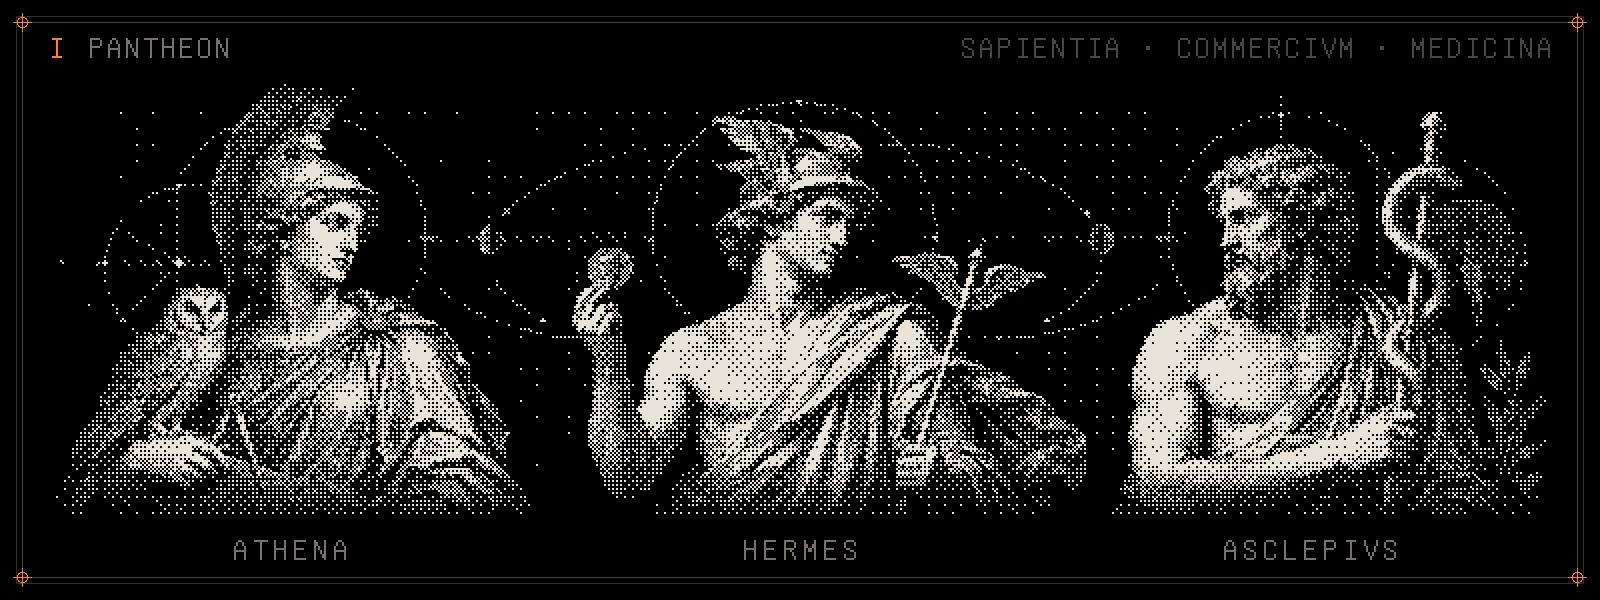
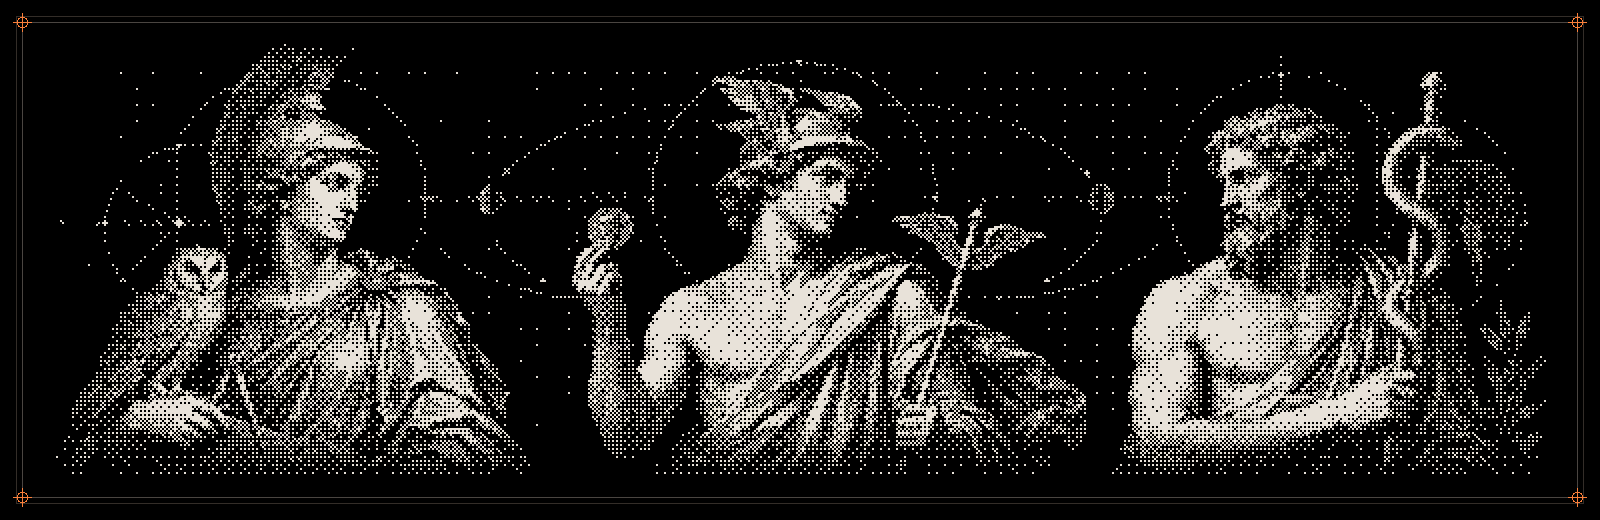
Profile: remove figure labels and the Homonin-palette snake
- Plates no longer carry their margin labels (plate number, title and
  corner tag). They are off behind LABELS in plates.js.
- Pantheon drops the Athena, Hermes and Asclepius name line and is
  cropped to match.
- README drops the captions under each figure and the "Plate N" prefix
  in alt text.
- README no longer shows the contribution snake, and the workflow stops
  generating the Homonin-palette snake variant.

Changed region(s): [[0.0, 0.1231, 1.0, 0.9846], [0.0312, 0.0923, 0.3438, 0.9231], [0.0, 0.0308, 1.0, 0.0923]]

diff --git a/tools/plates/plates.js b/tools/plates/plates.js
@@ -7,12 +7,15 @@ const SERIF = 'FreeSerif';
 const MONO = 'Unifont';
 const M = (p) => 'http://plates.local/media/' + p;
 
-// Plate chrome shared by every image: double rule, corner registration marks,
-// plate number and title set in the engraver's margin.
+// Plate chrome shared by every image: double rule and corner registration
+// marks. The plate number and title in the engraver's margin are off by
+// default (the profile shows the plates unlabelled); set LABELS to bring them back.
+const LABELS = false;
 function chrome(f, { no, title, right = '' }) {
   box(f, 16, 16, f.w - 33, f.h - 33, C.LINE);
   box(f, 22, 22, f.w - 45, f.h - 45, C.FAINT);
   for (const [x, y] of [[22, 22], [f.w - 23, 22], [22, f.h - 23], [f.w - 23, f.h - 23]]) regmark(f, x, y, 9, C.ACC);
+  if (!LABELS) return;
   if (no) text(f, no, 48, 58, `32px ${MONO}`, C.ACC);
   if (title) text(f, title, 48 + (no ? [...no].length * 16 + 24 : 0), 58, `32px ${MONO}`, C.MUT, { track: 2 });
   if (right) text(f, right, f.w - 48, 58, `32px ${MONO}`, C.FAINT, { align: 'right', track: 2 });
@@ -197,13 +200,12 @@ PLATES['a12n4v-systema'] = async () => {
 // I. PANTHEON: the original profile banner (Athena, Hermes, Asclepius),
 // re-struck in the plate system. Wisdom, exchange, medicine.
 PLATES['a12n4v-pantheon'] = async () => {
-  const W = 1600, H = 600, f = new Frame(W, H);
+  const W = 1600, H = 520, f = new Frame(W, H);
   chrome(f, { no: 'I', title: 'PANTHEON', right: 'SAPIENTIA · COMMERCIVM · MEDICINA' });
   const img = await loadImg('http://plates.local/src/classical-systems-banner.jpg');
-  const s = 2, x = 40, y = 80, w = 1520, h = 440, lw = w / s, lh = h / s;
+  const s = 2, x = 40, y = 40, w = 1520, h = 440, lw = w / s, lh = h / s;
   const L = autocontrast(lumField(img, lw, lh, { fit: 'cover', crop: [0, 20, 1800, 520] }), 0.01);
   ditherInto(f, L, lw, lh, x, y, s, { gamma: 1.15, mod: (cx, cy, v) => v * Math.max(0, Math.min(1, cy / 12, (lh - cy) / 30, cx / 20, (lw - cx) / 20)) });
-  ['ATHENA', 'HERMES', 'ASCLEPIVS'].forEach((t, i) => text(f, t, [290, 800, 1310][i], 560, `32px ${MONO}`, C.MUT, { align: 'center', track: 4 }));
   return { frames: [f], delays: [0] };
 };
 

diff --git a/README.md b/README.md
@@ -1,5 +1,5 @@
 <div align="center">
-  <img src="assets/a12n4v-pantheon.png" width="100%" alt="Plate I, Pantheon: dithered neoclassical busts of Athena, Hermes, and Asclepius, for wisdom, exchange, and medicine." />
+  <img src="assets/a12n4v-pantheon.png" width="100%" alt="Pantheon: dithered neoclassical busts of Athena, Hermes, and Asclepius, for wisdom, exchange, and medicine." />
 </div>
 
 # Arnav Sharma
@@ -20,28 +20,19 @@ A body produces **signals**. A model turns those signals into **signs**. A contr
 <br />
 
 <div align="center">
-  <img src="assets/a12n4v-systema.gif" width="100%" alt="Plate II, Systema Viabile, after Stafford Beer: an animated Viable System Model with Homonin at the center. Policy, intelligence, control, coordination, models, research, and the environment each send signals into Homonin and get feedback back. Around the edge, Beer's own wiring carries traffic too: the S3-S4 homeostat, the command channel, coordination, and the coupling to the environment." />
-  <sub>Beer's <i>Viable System Model</i> (<i>Brain of the Firm</i>, 1972), with Homonin at the center. Every system sends its signal in, Homonin integrates them, and feedback goes back out to each one.</sub>
+  <img src="assets/a12n4v-systema.gif" width="100%" alt="Systema Viabile, after Stafford Beer: an animated Viable System Model with Homonin at the center. Policy, intelligence, control, coordination, models, research, and the environment each send signals into Homonin and get feedback back. Around the edge, Beer's own wiring carries traffic too: the S3-S4 homeostat, the command channel, coordination, and the coupling to the environment." />
 </div>
 
 <br /><br />
 
 <div align="center">
-  <img src="assets/a12n4v-flvxvs.gif" width="100%" alt="Plate III, Flvxvs: seven data sources drawn as pixel glyphs (cardiac, neural, imaging, genome, labs, records, pathways) with their file formats, flowing into Homonin, drawn as a ship's helm. Homonin sends them out to a digital twin, therapy, care, and evidence, and an orange feedback line carries every outcome back into every source." />
-  <sub>What the body emits, the formats it arrives in, and where it goes. The helm is the <i>kybernetes</i>, the steersman that gave cybernetics its name.</sub>
+  <img src="assets/a12n4v-flvxvs.gif" width="100%" alt="Flvxvs: seven data sources drawn as pixel glyphs (cardiac, neural, imaging, genome, labs, records, pathways) with their file formats, flowing into Homonin, drawn as a ship's helm. Homonin sends them out to a digital twin, therapy, care, and evidence, and an orange feedback line carries every outcome back into every source." />
 </div>
 
 <br /><br />
 
 <div align="center">
-  <img src="https://raw.githubusercontent.com/A12N4V/A12N4V/output/a12n4v-pvlsvs.gif" width="100%" alt="Plate IV, Pvlsvs: live GitHub activity. Weekly contributions drawn as an ECG trace under a sweeping monitor line, the past year as a dithered contribution calendar, then contributions, streaks, repositories, stars, followers, and languages." />
-  <sub>Live. A GitHub Action re-renders this plate every day from this account's activity.</sub>
-</div>
-
-<br />
-
-<div align="center">
-  <img src="https://raw.githubusercontent.com/A12N4V/A12N4V/output/github-contribution-grid-snake-homonin.svg" width="100%" alt="Contribution snake in the Homonin palette" />
+  <img src="https://raw.githubusercontent.com/A12N4V/A12N4V/output/a12n4v-pvlsvs.gif" width="100%" alt="Pvlsvs: live GitHub activity. Weekly contributions drawn as an ECG trace under a sweeping monitor line, the past year as a dithered contribution calendar, then contributions, streaks, repositories, stars, followers, and languages." />
 </div>
 
 ---

diff --git a/tools/plates/README.md b/tools/plates/README.md
@@ -25,7 +25,7 @@ Glyphs are Homonin's 24×24 pixel icons, copied into `src/glyphs/`. A few more (
 
 `.github/workflows/plugins.yml` runs every day and on every push to `main`. It:
 
-1. generates the contribution snake (GitHub palette and Homonin palette),
+1. generates the contribution snake,
 2. runs `fetch-pulse.js`, which reads contributions, repos, stars, followers and languages through the GraphQL API with the workflow's `GITHUB_TOKEN`,
 3. renders `a12n4v-pvlsvs` with Playwright,
 4. pushes everything to the `output` branch.
